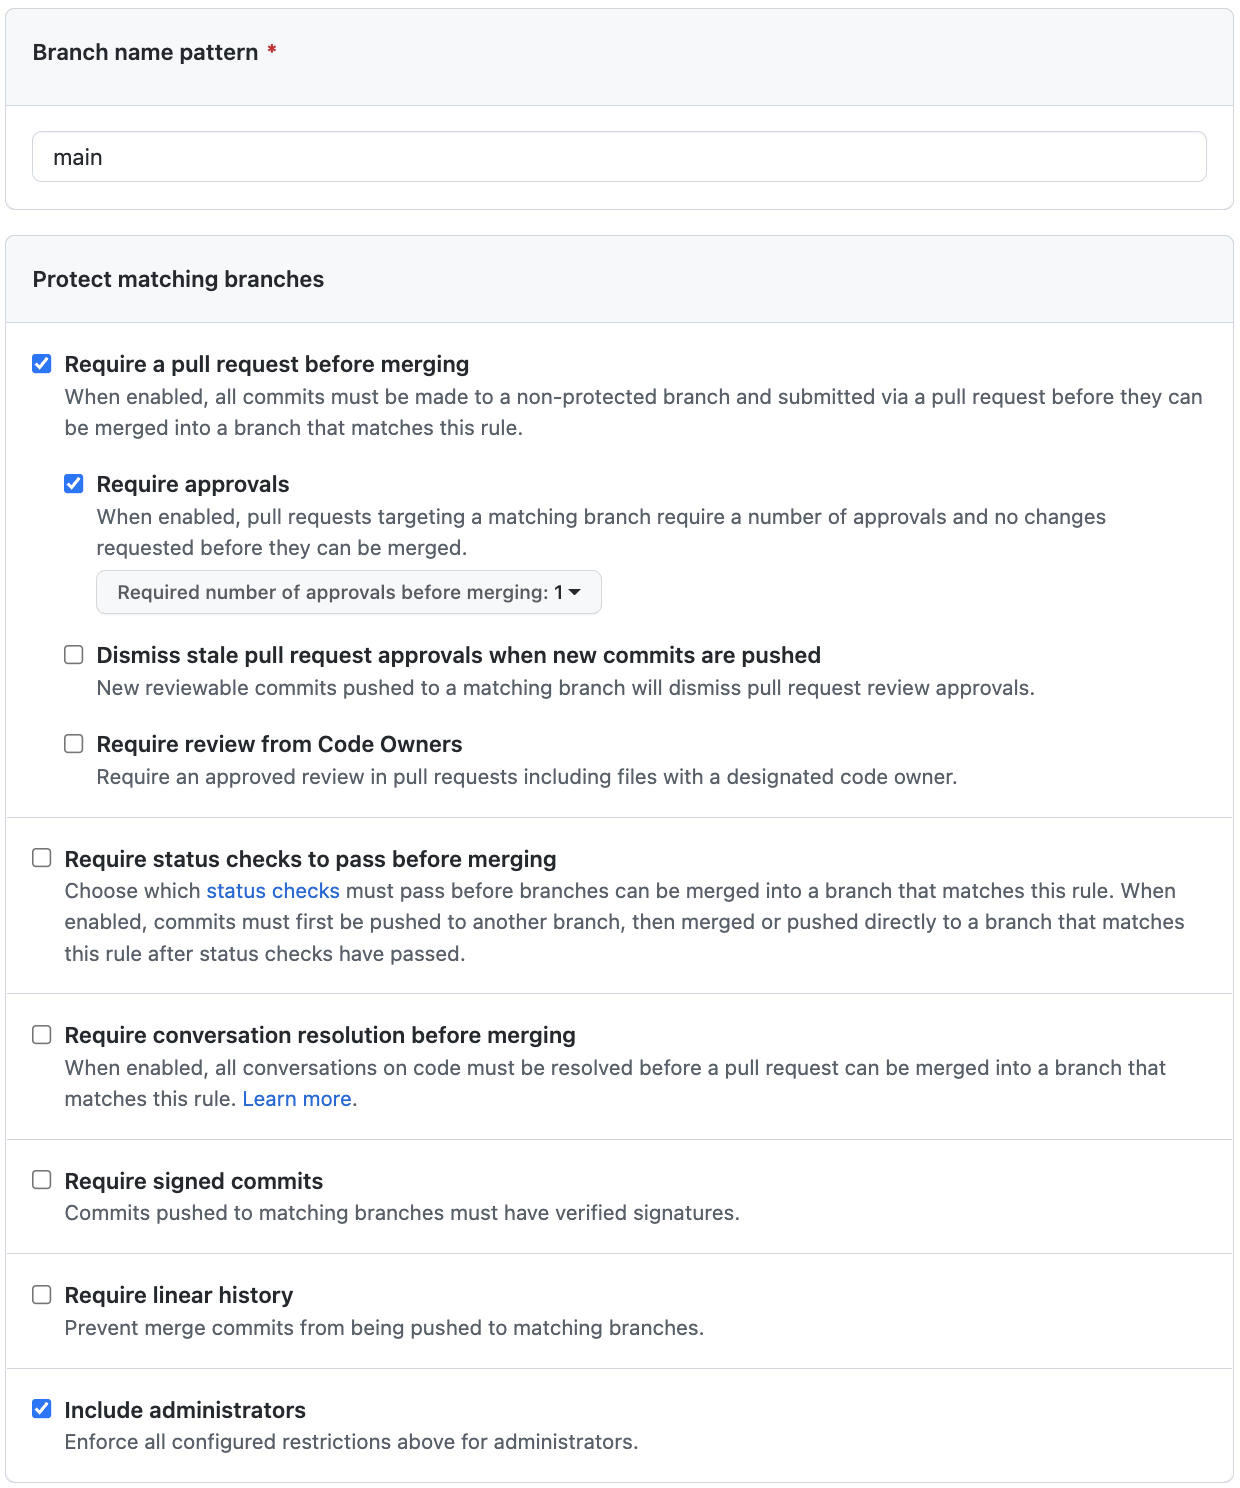
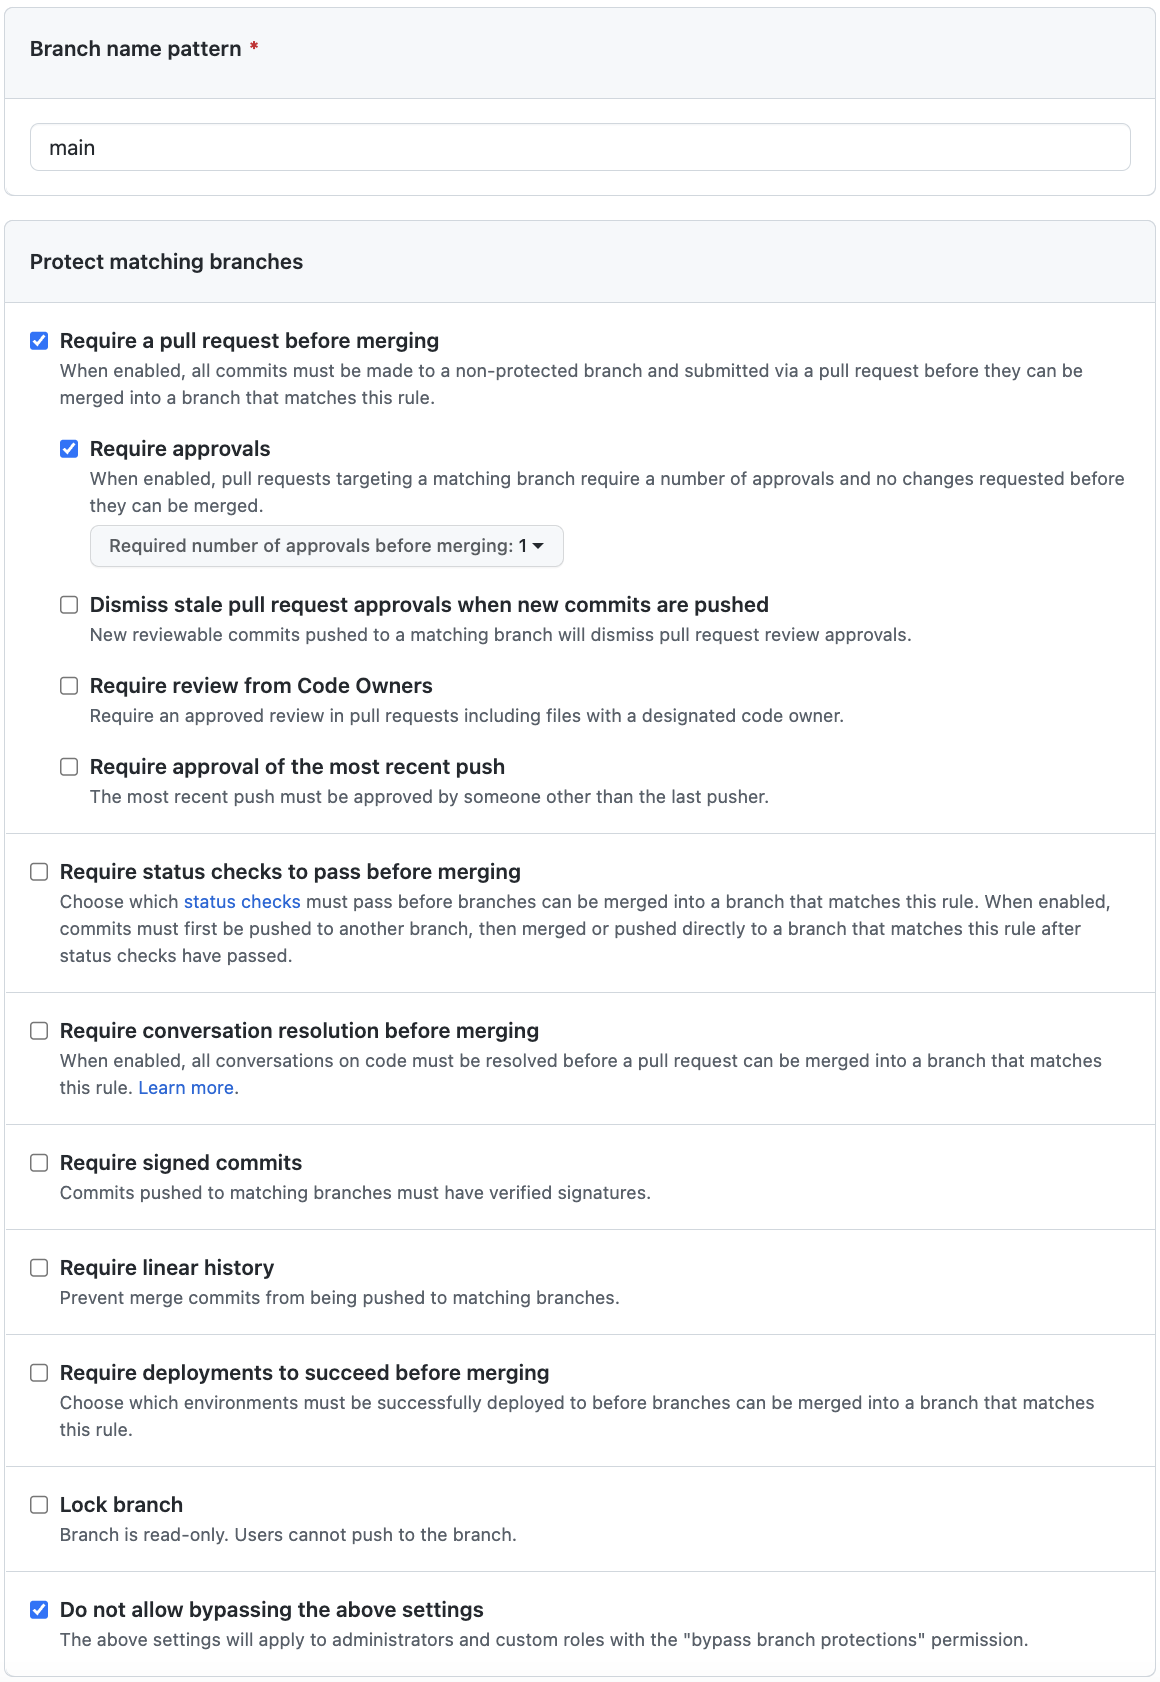
Publish disable push to main post

Changed region(s): [[0.0, 0.0, 0.9621, 0.6492], [0.0, 0.0, 1.0, 1.0]]

diff --git a/content/posts/disable-direct-push-to-main-branch.md b/content/posts/disable-direct-push-to-main-branch.md
@@ -1,18 +1,17 @@
 ---
 title: 'Disable a direct push to GitHub main branch'
-date: 2022-06-20T10:36:08-08:00
+date: 2022-12-29T10:36:08-08:00
 tags:
   - Git
   - GitHub
   - Pre-commit
 cover:
   image: 'covers/you-shall-not-push.png'
-draft: true
 ---
 
 On a development team, you never want to push directly to the `main` branch. Instead, you want to require changes to be made through pull requests so they can be properly reviewed by other developers.
 
-Some developers, including myself, occasionally forget to stuff their changes into a branch so I like to have an automated check to prevent this mistake. Here are two methods to block direct pushes to the GitHub main branch.
+Some developers, including myself, occasionally forget to push to a new branch so I like to have an automated check to prevent this mistake. Here are two methods to block direct pushes to the GitHub `main` branch.
 
 ## Pre-commit hook
 
@@ -23,7 +22,7 @@ You can implement this by adding the following `.pre-commit-config.yaml` file to
 ```yaml
 repos:
   - repo: https://github.com/pre-commit/pre-commit-hooks
-    rev: v4.1.0
+    rev: v4.4.0
     hooks:
       - id: no-commit-to-branch
 ```
@@ -31,7 +30,7 @@ repos:
 Then run `pre-commit install`. Now commits to `main` will result in an error:
 
 ```bash
-$ git commit -m "Update again"
+$ git commit -m "My change"
 don't commit to branch...................................................Failed
 - hook id: no-commit-to-branch
 - exit code: 1
@@ -49,7 +48,7 @@ Enter "main" under **Branch name pattern**. Then check **Require a pull request 
 
 You'll notice some additional features pop up. I generally check **Require approvals** so developers can't sneak a change through without a proper sign-off.
 
-Lastly, you may want to check **Include administrators** so the rule applies to repository admins. Keep in mind, however, that some git tools, such as [Flux](https://fluxcd.io/), need this access or they won't work. So be cognizant of the tools you're using and the privileges they need.
+Lastly, you may want to check **Do not allow bypassing the above settings** so the rule applies to repository admins. Keep in mind, however, that some git tools, such as [Flux](https://fluxcd.io/), need this access or they won't work. So be cognizant of the tools you're using and the privileges they need.
 
 When you're done, your rule should look like this:
 
@@ -67,4 +66,6 @@ To github.com:johnnymetz/my-repo.git
 error: failed to push some refs to 'github.com:johnnymetz/my-repo.git'
 ```
 
-I prefer the second method because it's foolproof and includes additional features.
+## Conclusion
+
+You can utilize both methods at the same time, which is what I do. However, I encourage all teams to implement at least the branch protection rule because it's foolproof and includes additional features.
